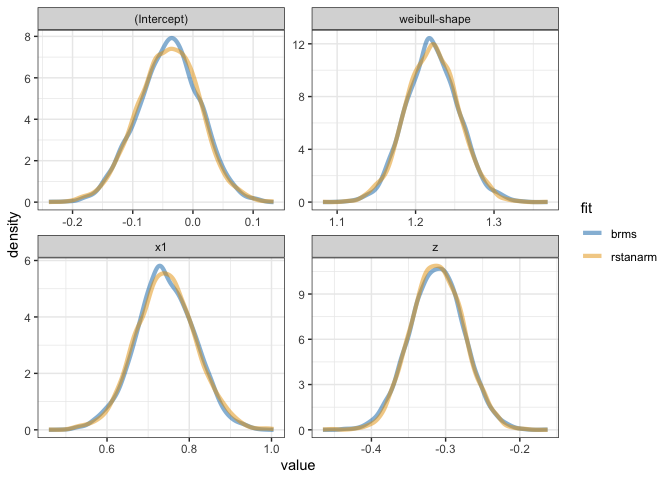
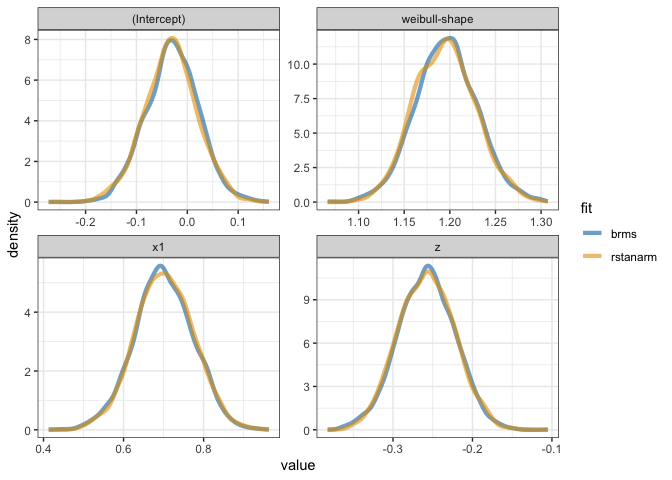
qmd edits

diff --git a/README.md b/README.md
@@ -7,9 +7,22 @@ Karolinska Institutet, Sweden
 
 Published: 2022-10-27
 
-Last updated: 2022-10-27
+Last updated: 2022-10-28
 
 ------------------------------------------------------------------------
+
+Functions to add to `brms` the **Weibull** custom response distribution
+with **proportional-hazards** parametrisation.
+
+$$f(t; \\mu, \\gamma) = \\mu \\gamma t^{\\gamma-1} \\exp(-\\mu t^{\\gamma})$$,
+
+where $\\log(\\mu_i) = x_i^T\\beta$.
+
+Functions can be `source`’d directly from R:
+
+``` r
+source("https://raw.githubusercontent.com/anddis/brms-weibullPH/main/weibullPH_funs.R")
+```
 
 ``` r
 library(brms)
@@ -19,27 +32,16 @@ library(ggplot2)
 theme_set(theme_bw())
 ```
 
-Functions to add to `brms` the Weibull custom response distribution with
-proportional-hazards parametrisation.
-
-$$f(t; \mu, \gamma) = \mu  \gamma t^{\gamma-1} \exp(-\mu t^{\gamma})$$.
-
-Functions can be `source`’d directly from R:
-
-``` r
-source("https://raw.githubusercontent.com/anddis/brms-weibullPH/main/weibullPH_funs.R")
-```
-
 ### Simulate right-censored survival data.
 
 ``` r
 set.seed(1901)
 N <- 1000
-x <- rep(c(1, 0), each = N/2)
+x <- rbinom(N, 1, 0.5)
 z <- rnorm(N)
 y <- flexsurv::rweibullPH(N, 
                           shape =  1.2, # gamma
-                          scale = exp(0 + log(2)*(x == 1) + log(0.75)*z)) # mu
+                          scale = exp(0 + log(2)*x + log(0.75)*z)) # mu
 cens <- runif(N, 0, 4)
 time <- pmin(y, cens)
 status <- as.numeric(y <= cens)
@@ -76,15 +78,15 @@ fit_brms <- brm(formula_brms,
     Running MCMC with 4 sequential chains...
 
     Chain 1 finished in 2.0 seconds.
-    Chain 2 finished in 1.9 seconds.
-    Chain 3 finished in 2.1 seconds.
-    Chain 4 finished in 2.1 seconds.
+    Chain 2 finished in 1.7 seconds.
+    Chain 3 finished in 2.0 seconds.
+    Chain 4 finished in 2.0 seconds.
 
     All 4 chains finished successfully.
-    Mean chain execution time: 2.0 seconds.
-    Total execution time: 8.4 seconds.
+    Mean chain execution time: 1.9 seconds.
+    Total execution time: 8.0 seconds.
 
-### Summary of the model.
+### Model summary.
 
 ``` r
 print(fit_brms, digits = 4)
@@ -99,13 +101,13 @@ print(fit_brms, digits = 4)
 
     Population-Level Effects: 
               Estimate Est.Error l-95% CI u-95% CI   Rhat Bulk_ESS Tail_ESS
-    Intercept  -0.0403    0.0513  -0.1427   0.0567 1.0011     4193     2961
-    x1          0.7416    0.0709   0.5983   0.8783 1.0012     4350     3402
-    z          -0.3119    0.0362  -0.3828  -0.2418 1.0020     3933     3087
+    Intercept  -0.0296    0.0522  -0.1341   0.0720 1.0007     3840     2752
+    x1          0.7000    0.0733   0.5526   0.8408 1.0010     3870     3130
+    z          -0.2579    0.0357  -0.3296  -0.1896 1.0007     4351     2876
 
     Family Specific Parameters: 
           Estimate Est.Error l-95% CI u-95% CI   Rhat Bulk_ESS Tail_ESS
-    gamma   1.2214    0.0335   1.1577   1.2877 1.0020     3969     3153
+    gamma   1.1958    0.0339   1.1284   1.2638 1.0009     4489     3178
 
     Draws were sampled using sample(hmc). For each parameter, Bulk_ESS
     and Tail_ESS are effective sample size measures, and Rhat is the potential
@@ -123,8 +125,8 @@ print(es$x, digits = 4)
 ```
 
       x   time censored z cond__ effect1__ estimate__    se__ lower__ upper__
-    1 0 0.6367    0.186 0      1         0     0.9667 0.04048  0.8933  1.0542
-    2 1 0.6367    0.186 0      1         1     0.5275 0.02008  0.4886  0.5695
+    1 0 0.6082     0.22 0      1         0     0.9649 0.04150  0.8879  1.0501
+    2 1 0.6082     0.22 0      1         1     0.5374 0.02228  0.4962  0.5834
 
 ``` r
 es
@@ -135,20 +137,14 @@ es
 True values:
 
 ``` r
-1^(-1/1.2) * gamma(1+1/1.2) 
+c(1^(-1/1.2) * gamma(1+1/1.2), 2^(-1/1.2) * gamma(1+1/1.2))
 ```
 
-    [1] 0.9406559
-
-``` r
-2^(-1/1.2) * gamma(1+1/1.2)
-```
-
-    [1] 0.5279253
+    [1] 0.9406559 0.5279253
 
 ### Graphical posterior predictive checking.
 
-On the survival scale.
+Survival scale.
 
 ``` r
 pp_check(fit_brms, 
@@ -159,9 +155,9 @@ pp_check(fit_brms,
 
 ![](README_files/figure-commonmark/unnamed-chunk-9-1.png)
 
-### Compare `brms` results with `rstanarm`.
+### Compare results from `brms` and `rstanarm`.
 
-Same Weibull PH parametrisation.
+Both use Weibull PH parametrisation.
 
 ``` r
 fit_rstanarm <- stan_surv(Surv(time, status) ~ x + z,
@@ -176,9 +172,11 @@ fit_rstanarm <- stan_surv(Surv(time, status) ~ x + z,
                   refresh = 0)
 ```
 
+Posterior distributions.
+
 ![](README_files/figure-commonmark/unnamed-chunk-11-1.png)
 
-Session info
+### Session info
 
 ``` r
 sessionInfo()
